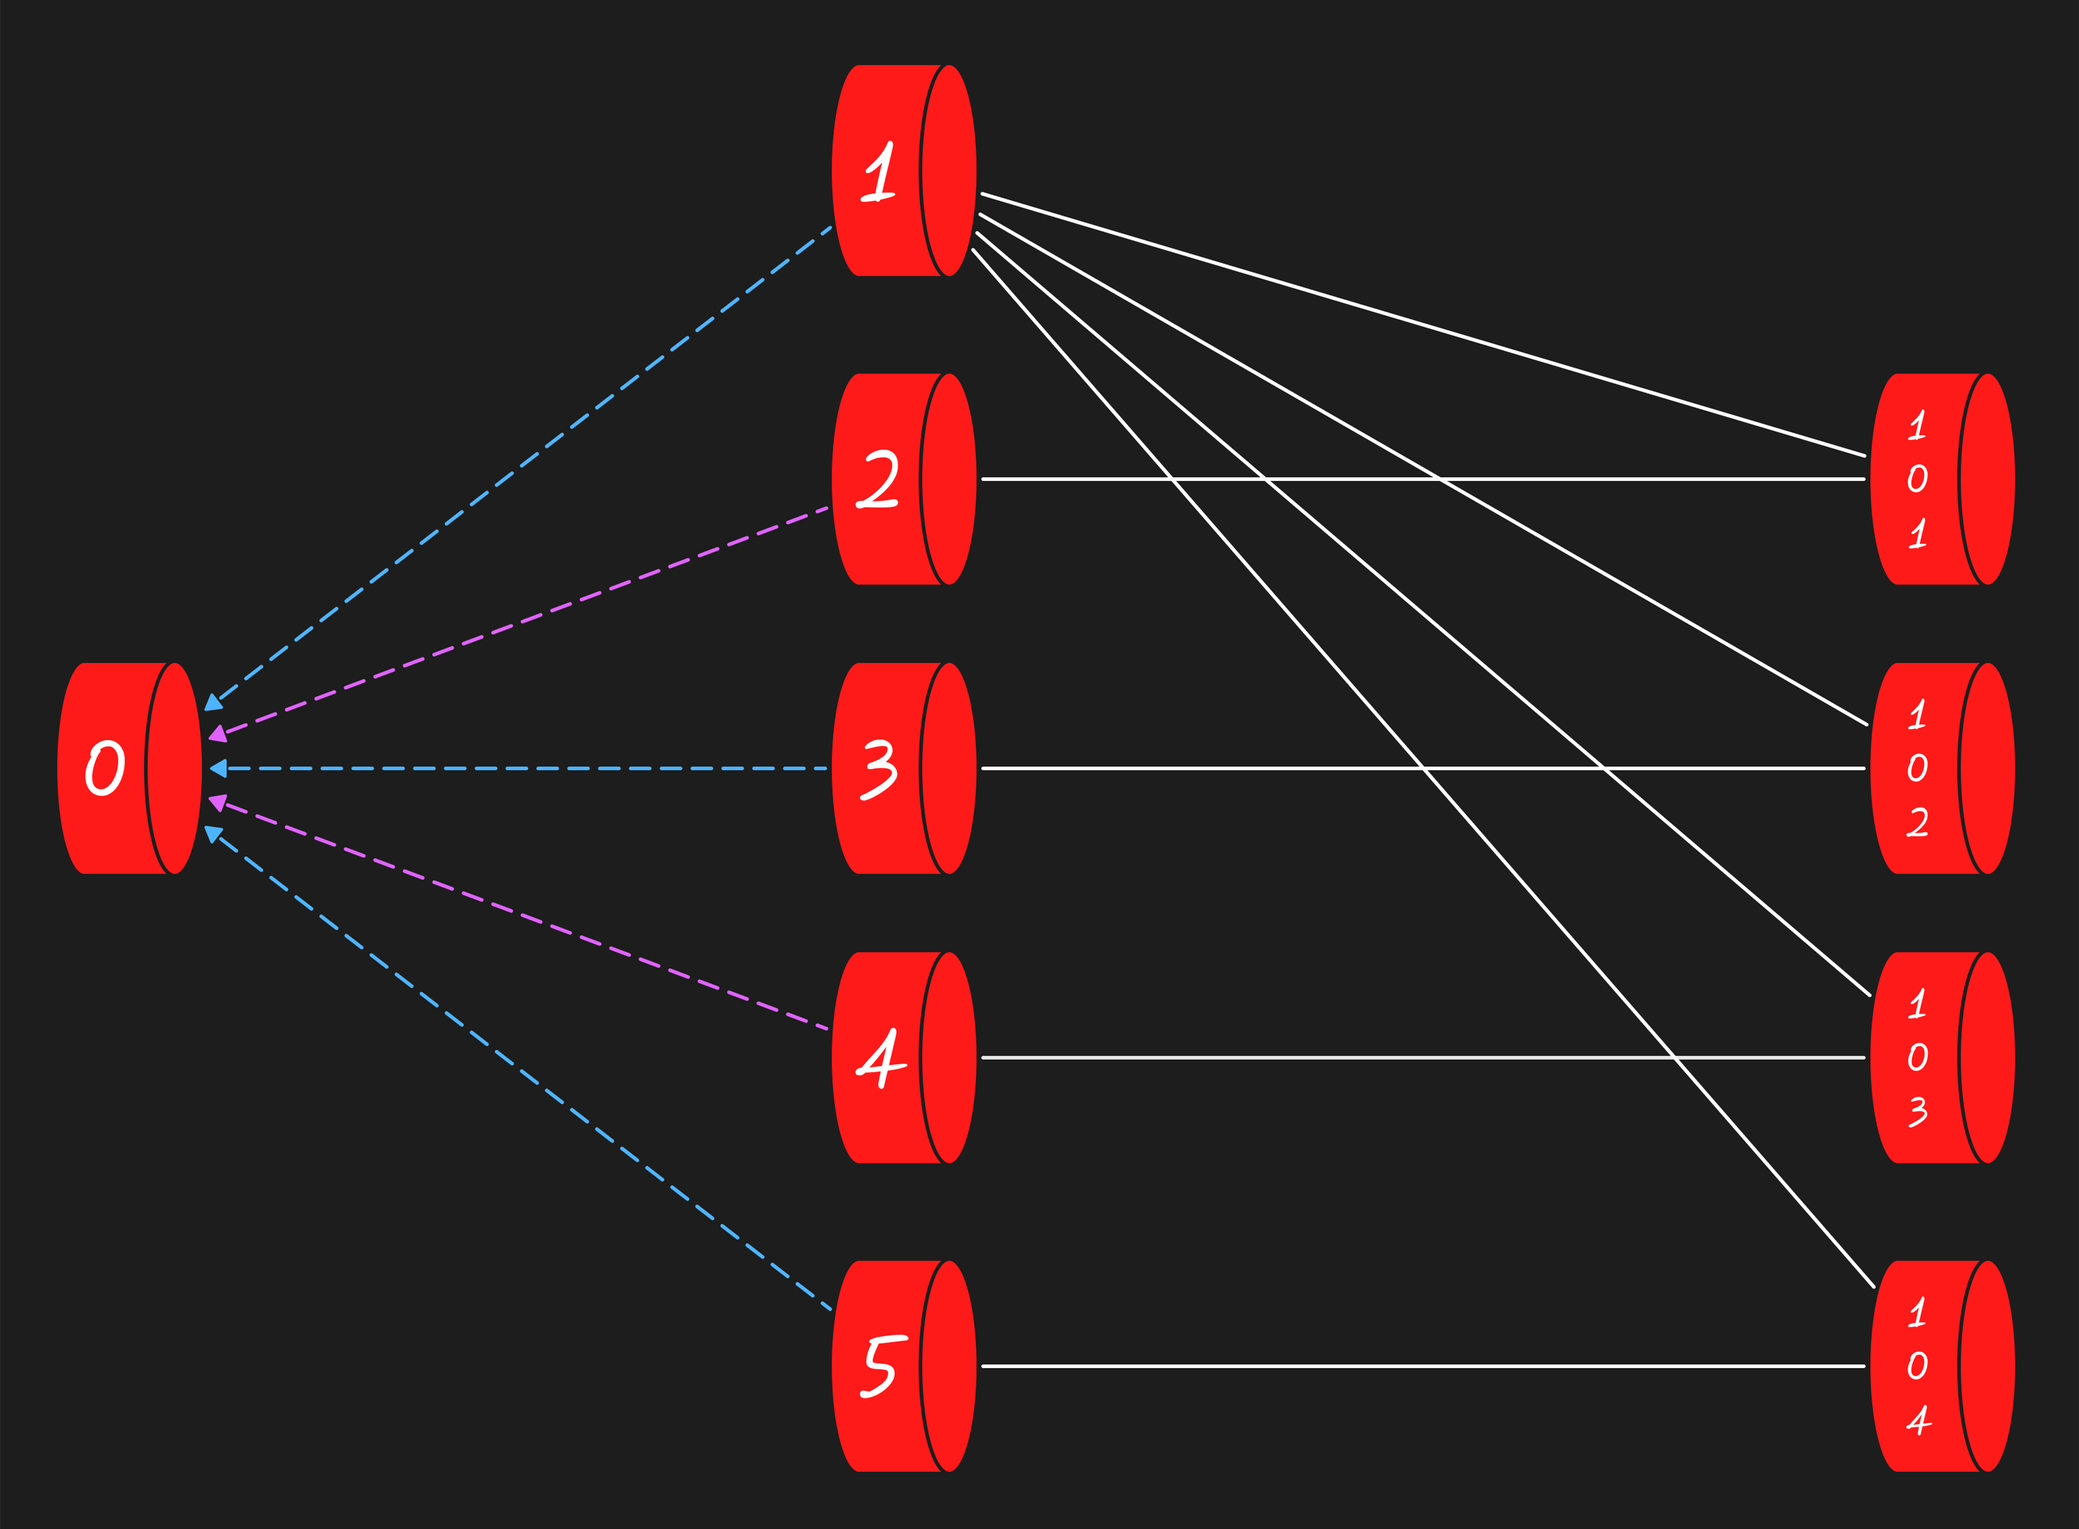
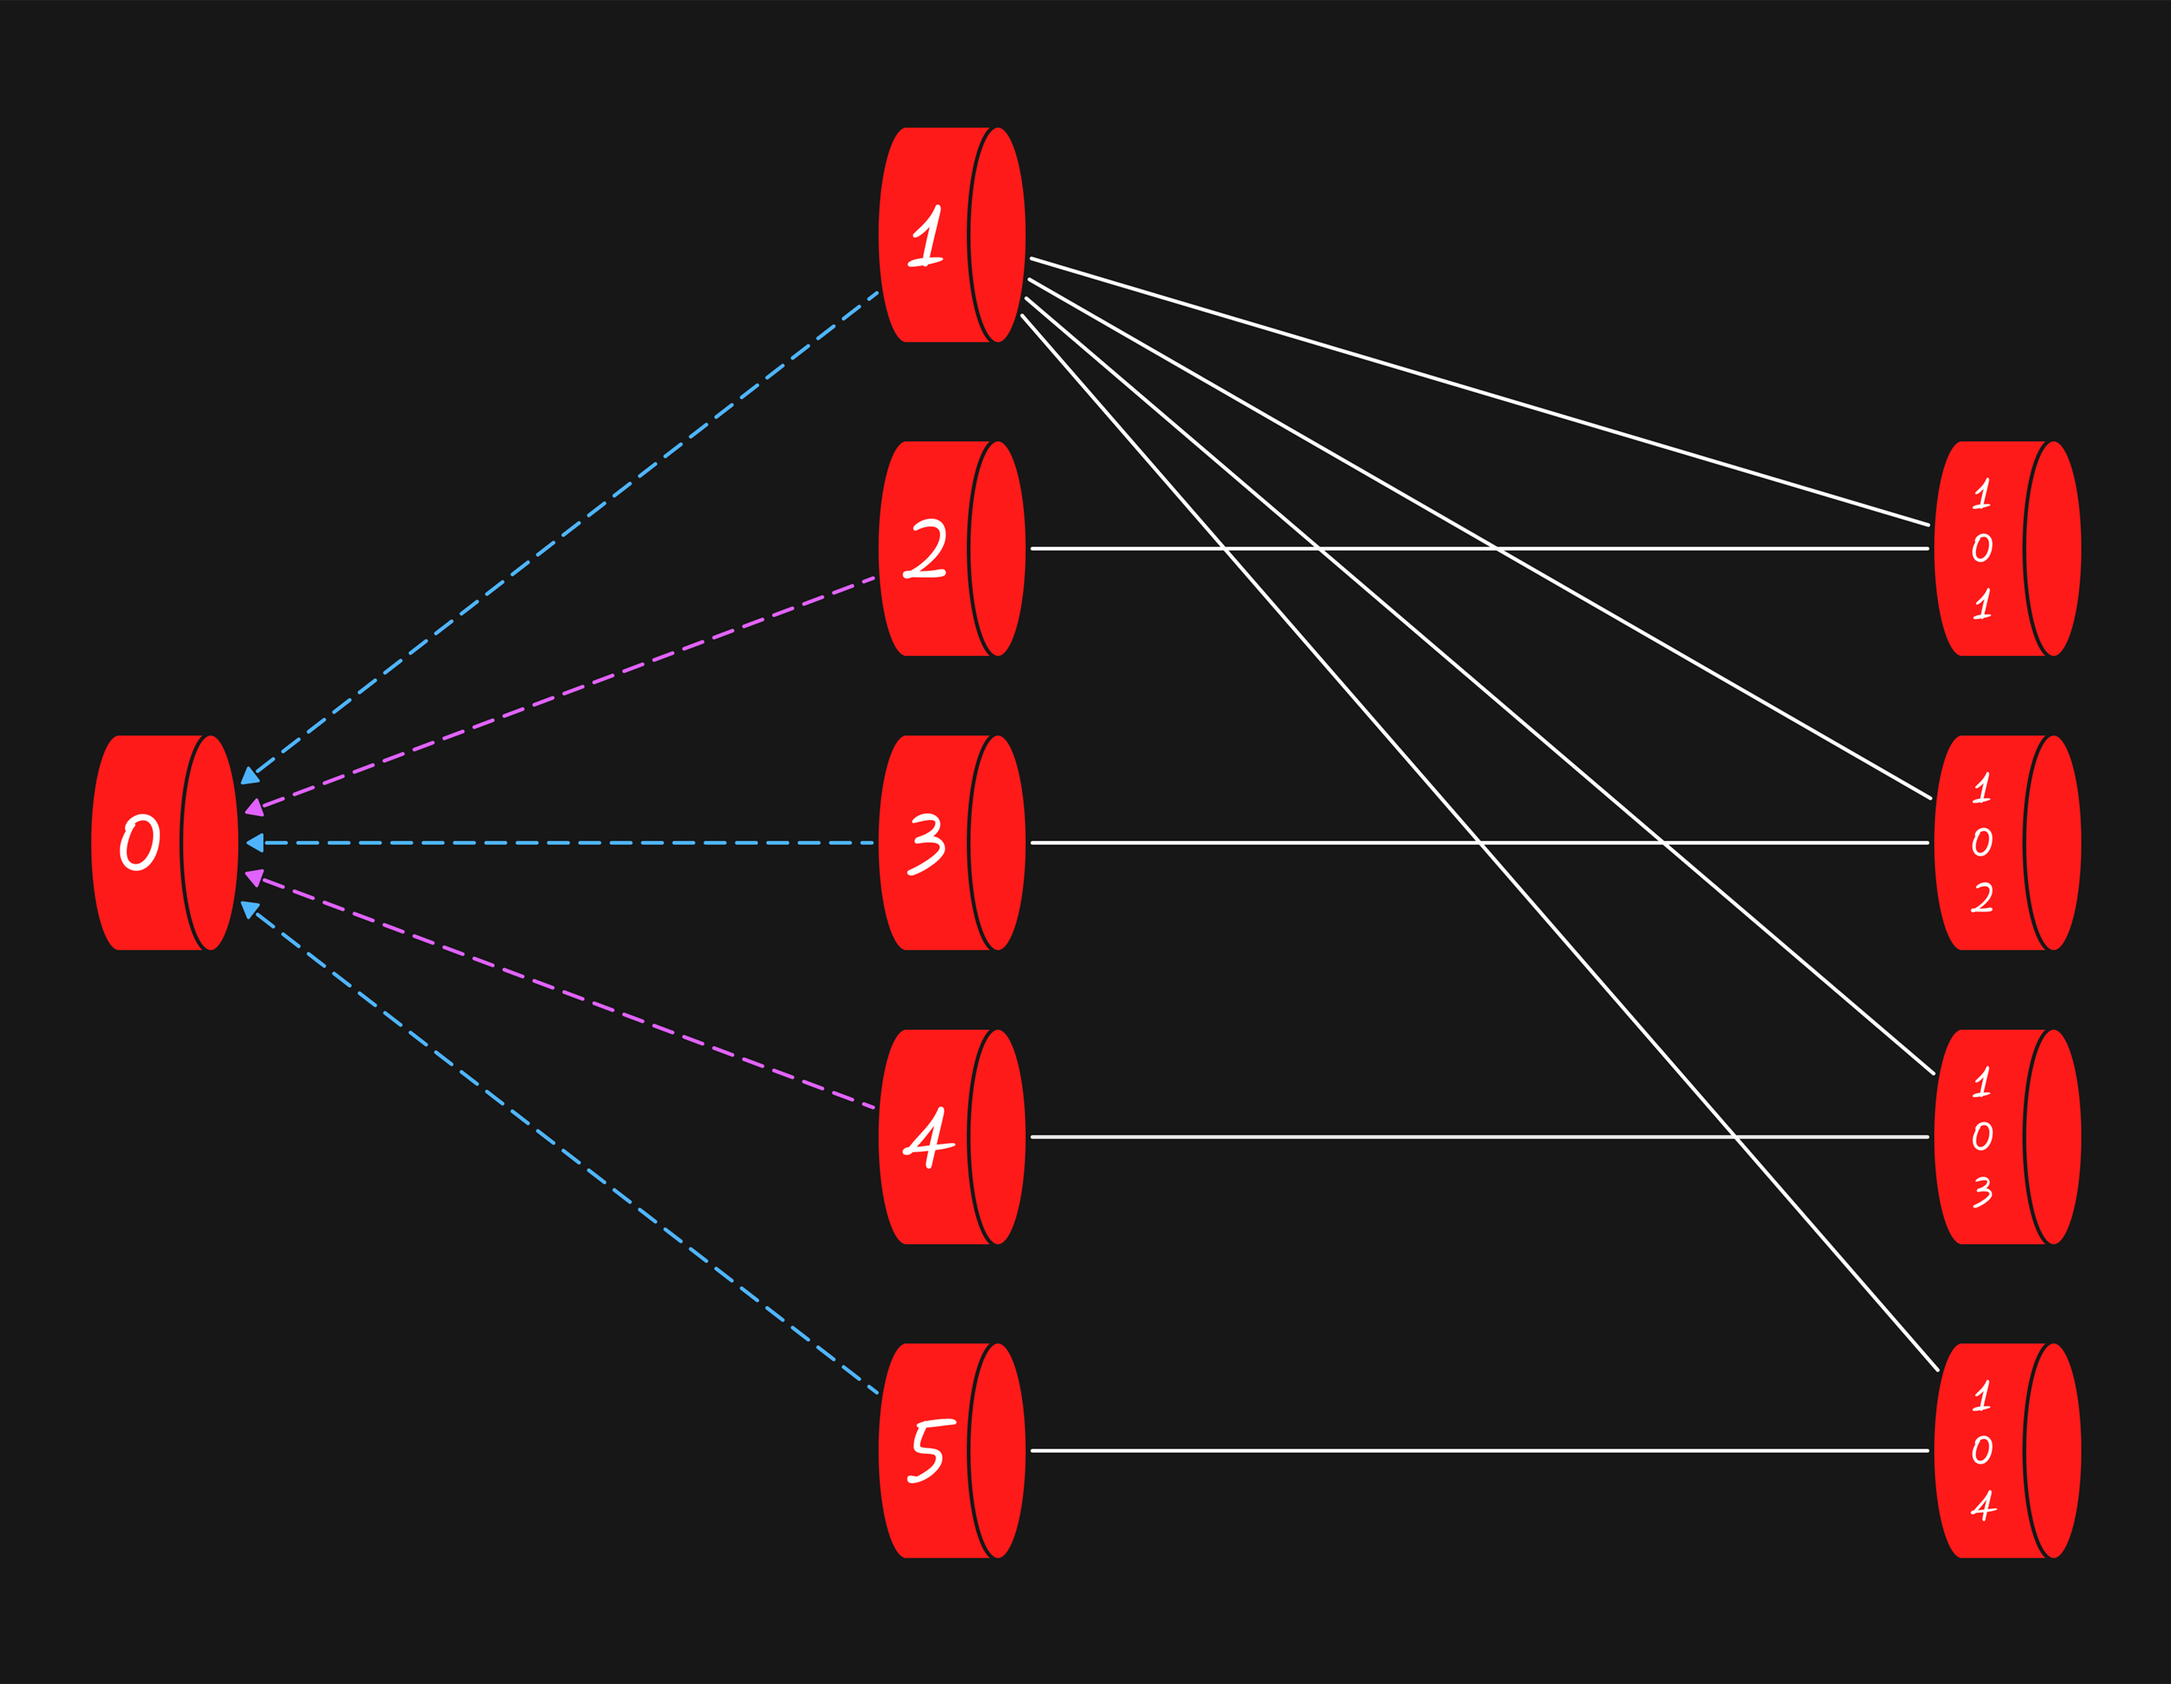
The image size changed

diff --git a/TestingLabFront-end/src/Components/Pages/TestingLab5/Cause-effectDiagram.tsx b/TestingLabFront-end/src/Components/Pages/TestingLab5/Cause-effectDiagram.tsx
@@ -44,10 +44,10 @@ const CaseEffectDiagram: React.FC = () => {
                                   container spacing={0}>
                             <img
                                 src='/images/Cause-effectDiagram.png'
-                                alt='Formula'
+                                alt='Cause and effectDiagram'
                                 style={{
-                                    maxWidth: '92%',
-                                    maxHeight: '92%',
+                                    maxWidth: '89%',
+                                    maxHeight: '89%',
                                     objectFit: 'cover',
                                     borderRadius: '8px',
                                     marginTop: '5px',
@@ -125,7 +125,7 @@ const CaseEffectDiagram: React.FC = () => {
                             действий.
                         </Typography>
 
-                        <img style={{ height: '65px' }}/>
+                        <img style={{ height: '75px' }}/>
                     </MyBox>
                 </Grid>
             </Grid>
@@ -179,20 +179,18 @@ const CaseEffectDiagram: React.FC = () => {
 
             <Grid justifyContent="center"
                 container spacing={0}>
-                <Box width='50%' sx={{ borderColor: 'red', margin: 0} }>
                 <img
                     src='/images/Desicion Table.png'
                     alt='Formula'
                     style={{
-                        maxWidth: '100%',
-                        maxHeight: '100%',
+                        maxWidth: '50%',
+                        maxHeight: '50%',
                         objectFit: 'cover',
                         borderRadius: '8px',
                         marginTop: '5px',
                         marginBottom: '50px',
                     }}
                     />
-                </Box>
             </Grid>
         </>
     );
